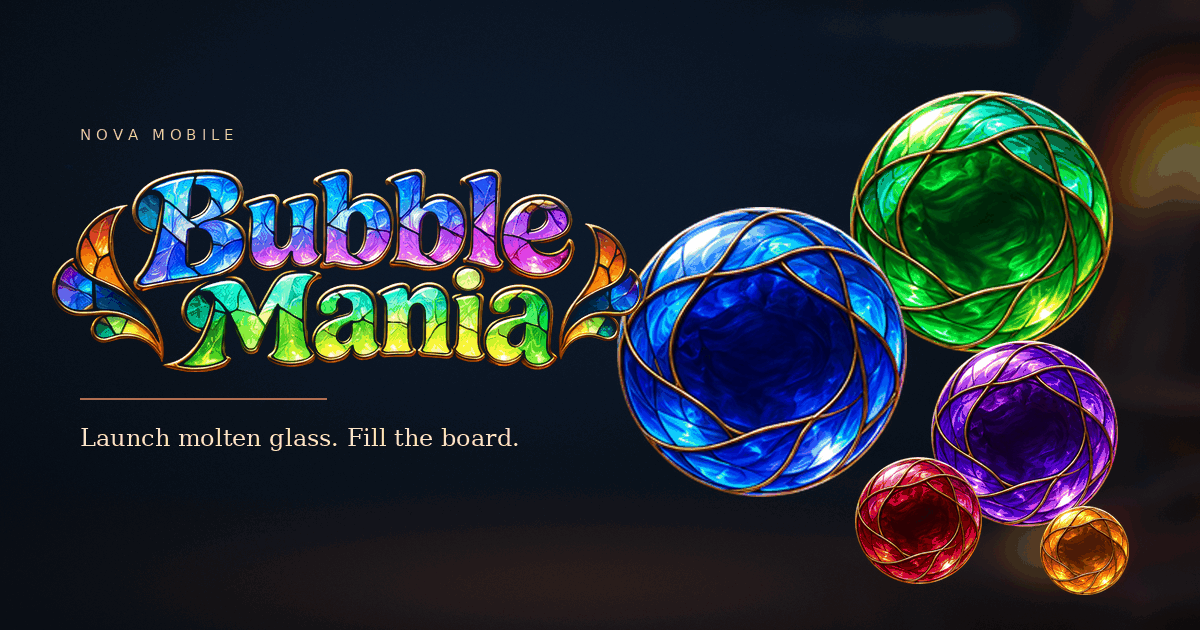
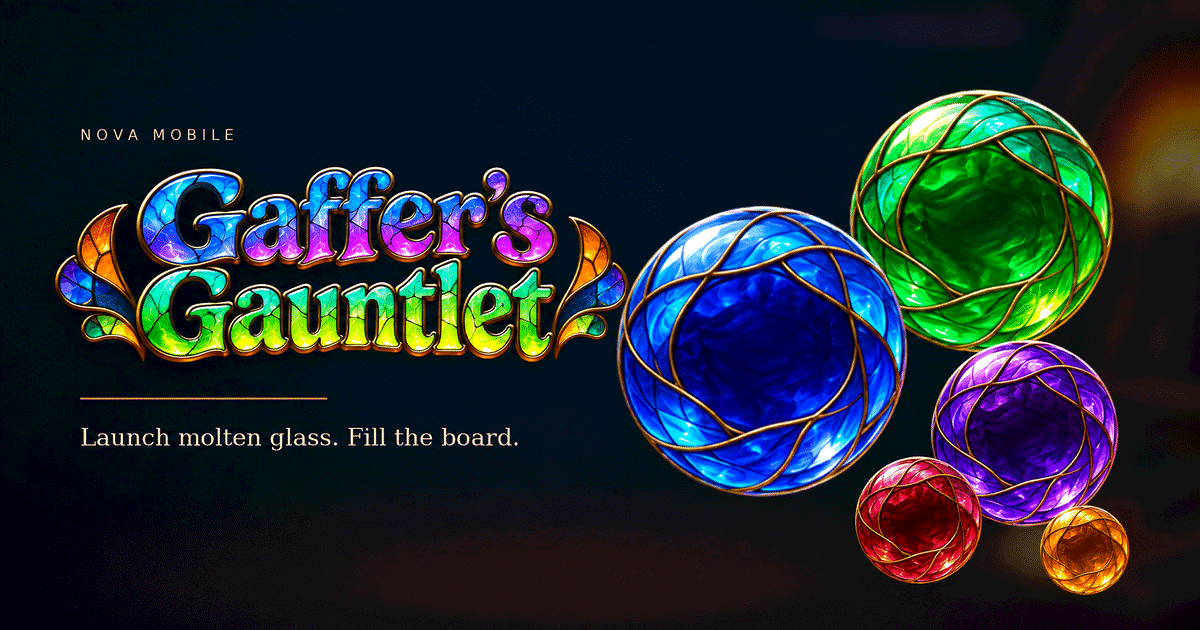
Rename Gaffer's Gauntlet and add mulligans

Changed region(s): [[0.0308, 0.1206, 1.0, 0.9651], [0.0617, 0.6635, 0.4317, 0.7238], [0.0617, 0.2111, 0.0925, 0.2413]]

diff --git a/play/bubble-mania/index.html b/play/bubble-mania/index.html
@@ -5,12 +5,12 @@
   <meta name="viewport" content="width=device-width, initial-scale=1, viewport-fit=cover">
   <meta name="theme-color" content="#0c131a">
   <meta name="description" content="Launch molten glass, grow stained-glass bubbles, and cover as much of the board as you can.">
-  <meta property="og:title" content="Bubble Mania">
+  <meta property="og:title" content="Gaffer's Gauntlet">
   <meta property="og:description" content="Launch molten glass, grow stained-glass bubbles, and cover as much of the board as you can.">
   <meta property="og:image" content="../../carts/bubble-mania/assets/poster.png">
-  <title>Bubble Mania</title>
+  <title>Gaffer's Gauntlet</title>
   <link rel="icon" href="../../carts/bubble-mania/assets/icon.png" sizes="512x512" type="image/png">
-  <link rel="stylesheet" href="./workshop.css?v=4">
+  <link rel="stylesheet" href="./workshop.css?v=5">
 </head>
 <body data-cart="bubble-mania">
   <main>
@@ -19,19 +19,20 @@
       <button type="button" id="menu" hidden>Menu</button>
     </header>
     <section id="intro" aria-labelledby="title">
-      <h1 class="sr-only" id="title">Bubble Mania</h1>
+      <h1 class="sr-only" id="title">Gaffer's Gauntlet</h1>
       <img class="poster" src="../../carts/bubble-mania/assets/poster.png" width="1200" height="630" alt="">
       <p class="challenge-intro" id="challenge-intro" hidden></p>
-      <button class="primary" type="button" id="play">Play Bubble Mania</button>
+      <button class="primary" type="button" id="play">Play Gaffer's Gauntlet</button>
       <ul class="instructions">
         <li>Hold below the frame and drag to aim. The power gauge cycles up and down. Release at the power you want.</li>
         <li>Bank the bead off the frame or a firebrick. After it lands, the glass grows until it touches a wall, a firebrick, or another bubble.</li>
-        <li>Your score is the area covered. Hit a bubble with the bead and the run ends.</li>
+        <li>Earn a mulligan at every 15% of coverage. If you hit a bubble, a mulligan saves the board. With none left, the run ends.</li>
       </ul>
     </section>
-    <section id="board" aria-label="Bubble Mania game" hidden>
+    <section id="board" aria-label="Gaffer's Gauntlet game" hidden>
       <div class="scorecard">
         <div class="score"><span>Coverage</span><strong data-cart-field="coverage">0.0%</strong></div>
+        <div class="mulligans"><span>Mulligans</span><strong data-cart-field="mulligans">0</strong></div>
         <div class="target" id="target" hidden><span>To beat</span><strong id="target-score"></strong></div>
         <div class="best"><span>Best</span><strong id="best">0.0%</strong></div>
       </div>
@@ -49,7 +50,7 @@
           <span aria-hidden="true">Power</span>
         </div>
       </div>
-      <p id="controls-hint">Hold and drag below the frame. Release to fire.</p>
+      <p id="controls-hint" data-cart-field="hint">Hold and drag below the frame. Release to fire.</p>
       <p id="cart-status" class="sr-only" role="status"></p>
     </section>
     <p id="feedback" role="status"></p>
@@ -95,6 +96,6 @@
     <p id="share-status" role="status"></p>
   </dialog>
   <div id="safe-area" aria-hidden="true"></div>
-  <script type="module" src="./workshop.mjs?v=4"></script>
+  <script type="module" src="./workshop.mjs?v=5"></script>
 </body>
 </html>

diff --git a/carts/bubble-mania/code.js b/carts/bubble-mania/code.js
@@ -8,6 +8,7 @@ const LIGHTS = [[.31, .68, 1], [.81, .42, 1], [.37, 1, .59], [1, .33, .44], [1, 
 const CHARGE_TICKS = 71;
 const MAX_ANGLE = .84;
 const MIN_RADIUS = 3.5;
+const MULLIGAN_INTERVAL = 15;
 const BEAD_RADIUS = 2.4;
 const CONTACT_TOLERANCE = 1e-7;
 const SHATTER_TICKS = 44;
@@ -149,6 +150,8 @@ export function createCart(api) {
   let finalCoverage;
   let tick = 0;
   let nextColor = 0;
+  let mulligans = 0;
+  let milestonesReached = 0;
   let cue = { id: 0 };
   let status = 'Hold below the glass. Drag to aim and release to fire.';
 
@@ -223,6 +226,13 @@ export function createCart(api) {
     const { x, y } = shotPosition(shot, distance);
     shot = undefined;
     if (impact === 'bubble') {
+      if (mulligans > 0) {
+        mulligans--;
+        phase = 'ready';
+        status = 'Mulligan used. Aim and try again.';
+        sound('mulligan-used');
+        return;
+      }
       finalCoverage = coverageOf(bubbles);
       const [bubble] = bubbles.splice(victim, 1);
       shattered = { ...bubble, contactX: x, contactY: y, start: tick };
@@ -242,8 +252,17 @@ export function createCart(api) {
     bubbles.push({ x, y, color, radius: goal });
     growing = undefined;
     phase = 'ready';
-    status = 'Ready for the next bead';
-    sound('settle');
+    const milestones = Math.floor(coverageOf(bubbles) / MULLIGAN_INTERVAL);
+    const earned = milestones - milestonesReached;
+    milestonesReached = milestones;
+    mulligans += earned;
+    if (earned > 0) {
+      status = earned === 1 ? 'Mulligan earned!' : earned + ' mulligans earned!';
+      sound('mulligan-earned');
+    } else {
+      status = 'Ready for the next bead';
+      sound('settle');
+    }
   }
 
   function update() {
@@ -313,9 +332,13 @@ export function createCart(api) {
     const coverage = finalCoverage ?? coverageOf(bubbles, growing);
     return {
       phase, angle, power, charging: Boolean(gesture), shotPreview: previewShot(), status, cue,
-      coverage,
+      coverage, mulligans,
       bubbles: visible.map(({ x, y, radius, color }) => ({ x, y, radius, color })),
-      readout: { coverage: coverage.toFixed(1) + '%' },
+      readout: {
+        coverage: coverage.toFixed(1) + '%',
+        mulligans,
+        hint: cue.name?.startsWith('mulligan-') ? status : 'Hold and drag below the frame. Release to fire.',
+      },
     };
   }
 

diff --git a/play/bubble-mania/workshop.css b/play/bubble-mania/workshop.css
@@ -107,8 +107,8 @@ button:disabled { opacity: .55; cursor: default; }
 .scorecard strong { line-height: 1.05; font-family: Georgia, serif; }
 .score strong { font-size: clamp(1.8rem, 5vw, 2.7rem); }
 .best { text-align: right; }
-.best strong, .target strong { font-size: 1.25rem; }
-.target { text-align: center; }
+.best strong, .target strong, .mulligans strong { font-size: 1.25rem; }
+.target, .mulligans { text-align: center; }
 .surface-frame {
   position: relative;
   container-type: inline-size;

diff --git a/docs/carts/bubble-mania.md b/docs/carts/bubble-mania.md
@@ -1,16 +1,17 @@
-# Bubble Mania
+# Gaffer's Gauntlet
 
-Bubble Mania is a portrait score-attack puzzle set in a glassblower's workshop. Launch a bead of molten glass and cover as much of the playfield as possible with stained-glass bubbles.
+Gaffer's Gauntlet is a portrait score-attack puzzle set in a glassblower's workshop. Launch a bead of molten glass and cover as much of the playfield as possible with stained-glass bubbles.
 
 ## Controls
 
-Press anywhere in the launcher area and hold to charge. Drag left or right to turn the blowpipe, then release to fire. The glowing blowpipe muzzle shows the angle. The far-left gauge cycles from empty to full and back while you hold. Releasing uses the power at that point in the cycle. Turn on Easy Mode in the Workshop menu to see a landing marker while you aim. It follows the shot through ricochets and shows an X if the bead would shatter a bubble. The setting is off by default and saved locally. A canceled touch or a pause clears the charge.
+Press anywhere in the launcher area and hold to charge. Drag left or right to turn the blowpipe, then release to fire. The glowing blowpipe muzzle shows the angle. The far-left gauge cycles from empty to full and back while you hold. Releasing uses the power at that point in the cycle. Turn on Easy Mode in the Workshop menu to see a landing marker while you aim. It follows the shot through ricochets and shows an X if the bead would hit a bubble. The setting is off by default and saved locally. A canceled touch or a pause clears the charge.
 
 ## Rules
 
 - The bead travels along the blowpipe's angle and ricochets off the frame and the square firebricks. The charge held at release sets the travel distance, including any distance after a bounce.
 - The landing point becomes the center of a circle. Its centered radius readout counts up as it expands. Growth stops at the closest edge of the frame, a square firebrick, or another bubble.
-- A bead that lands with too little room to grow is spent. A bead that hits an existing bubble shatters it and ends the run.
+- A bead that lands with too little room to grow is spent. A bead that hits an existing bubble shatters it and ends the run if no mulligans are available.
+- Each run starts with zero mulligans. When a bubble finishes growing, the player earns one for each new 15-point milestone reached in coverage. Mulligans accumulate in the scorecard. The game automatically spends one to cancel a shot that hits a bubble, preserving every bubble and the current score.
 - The score is the sum of the bubble areas divided by the playfield's full area. The final score uses the coverage at the instant before the shatter. The best score is stored locally.
 - Retry board reuses the firebrick pattern. New board selects a new seed. Colors cycle through five distinct hues, and the bead takes on the next bubble's hue.
 
